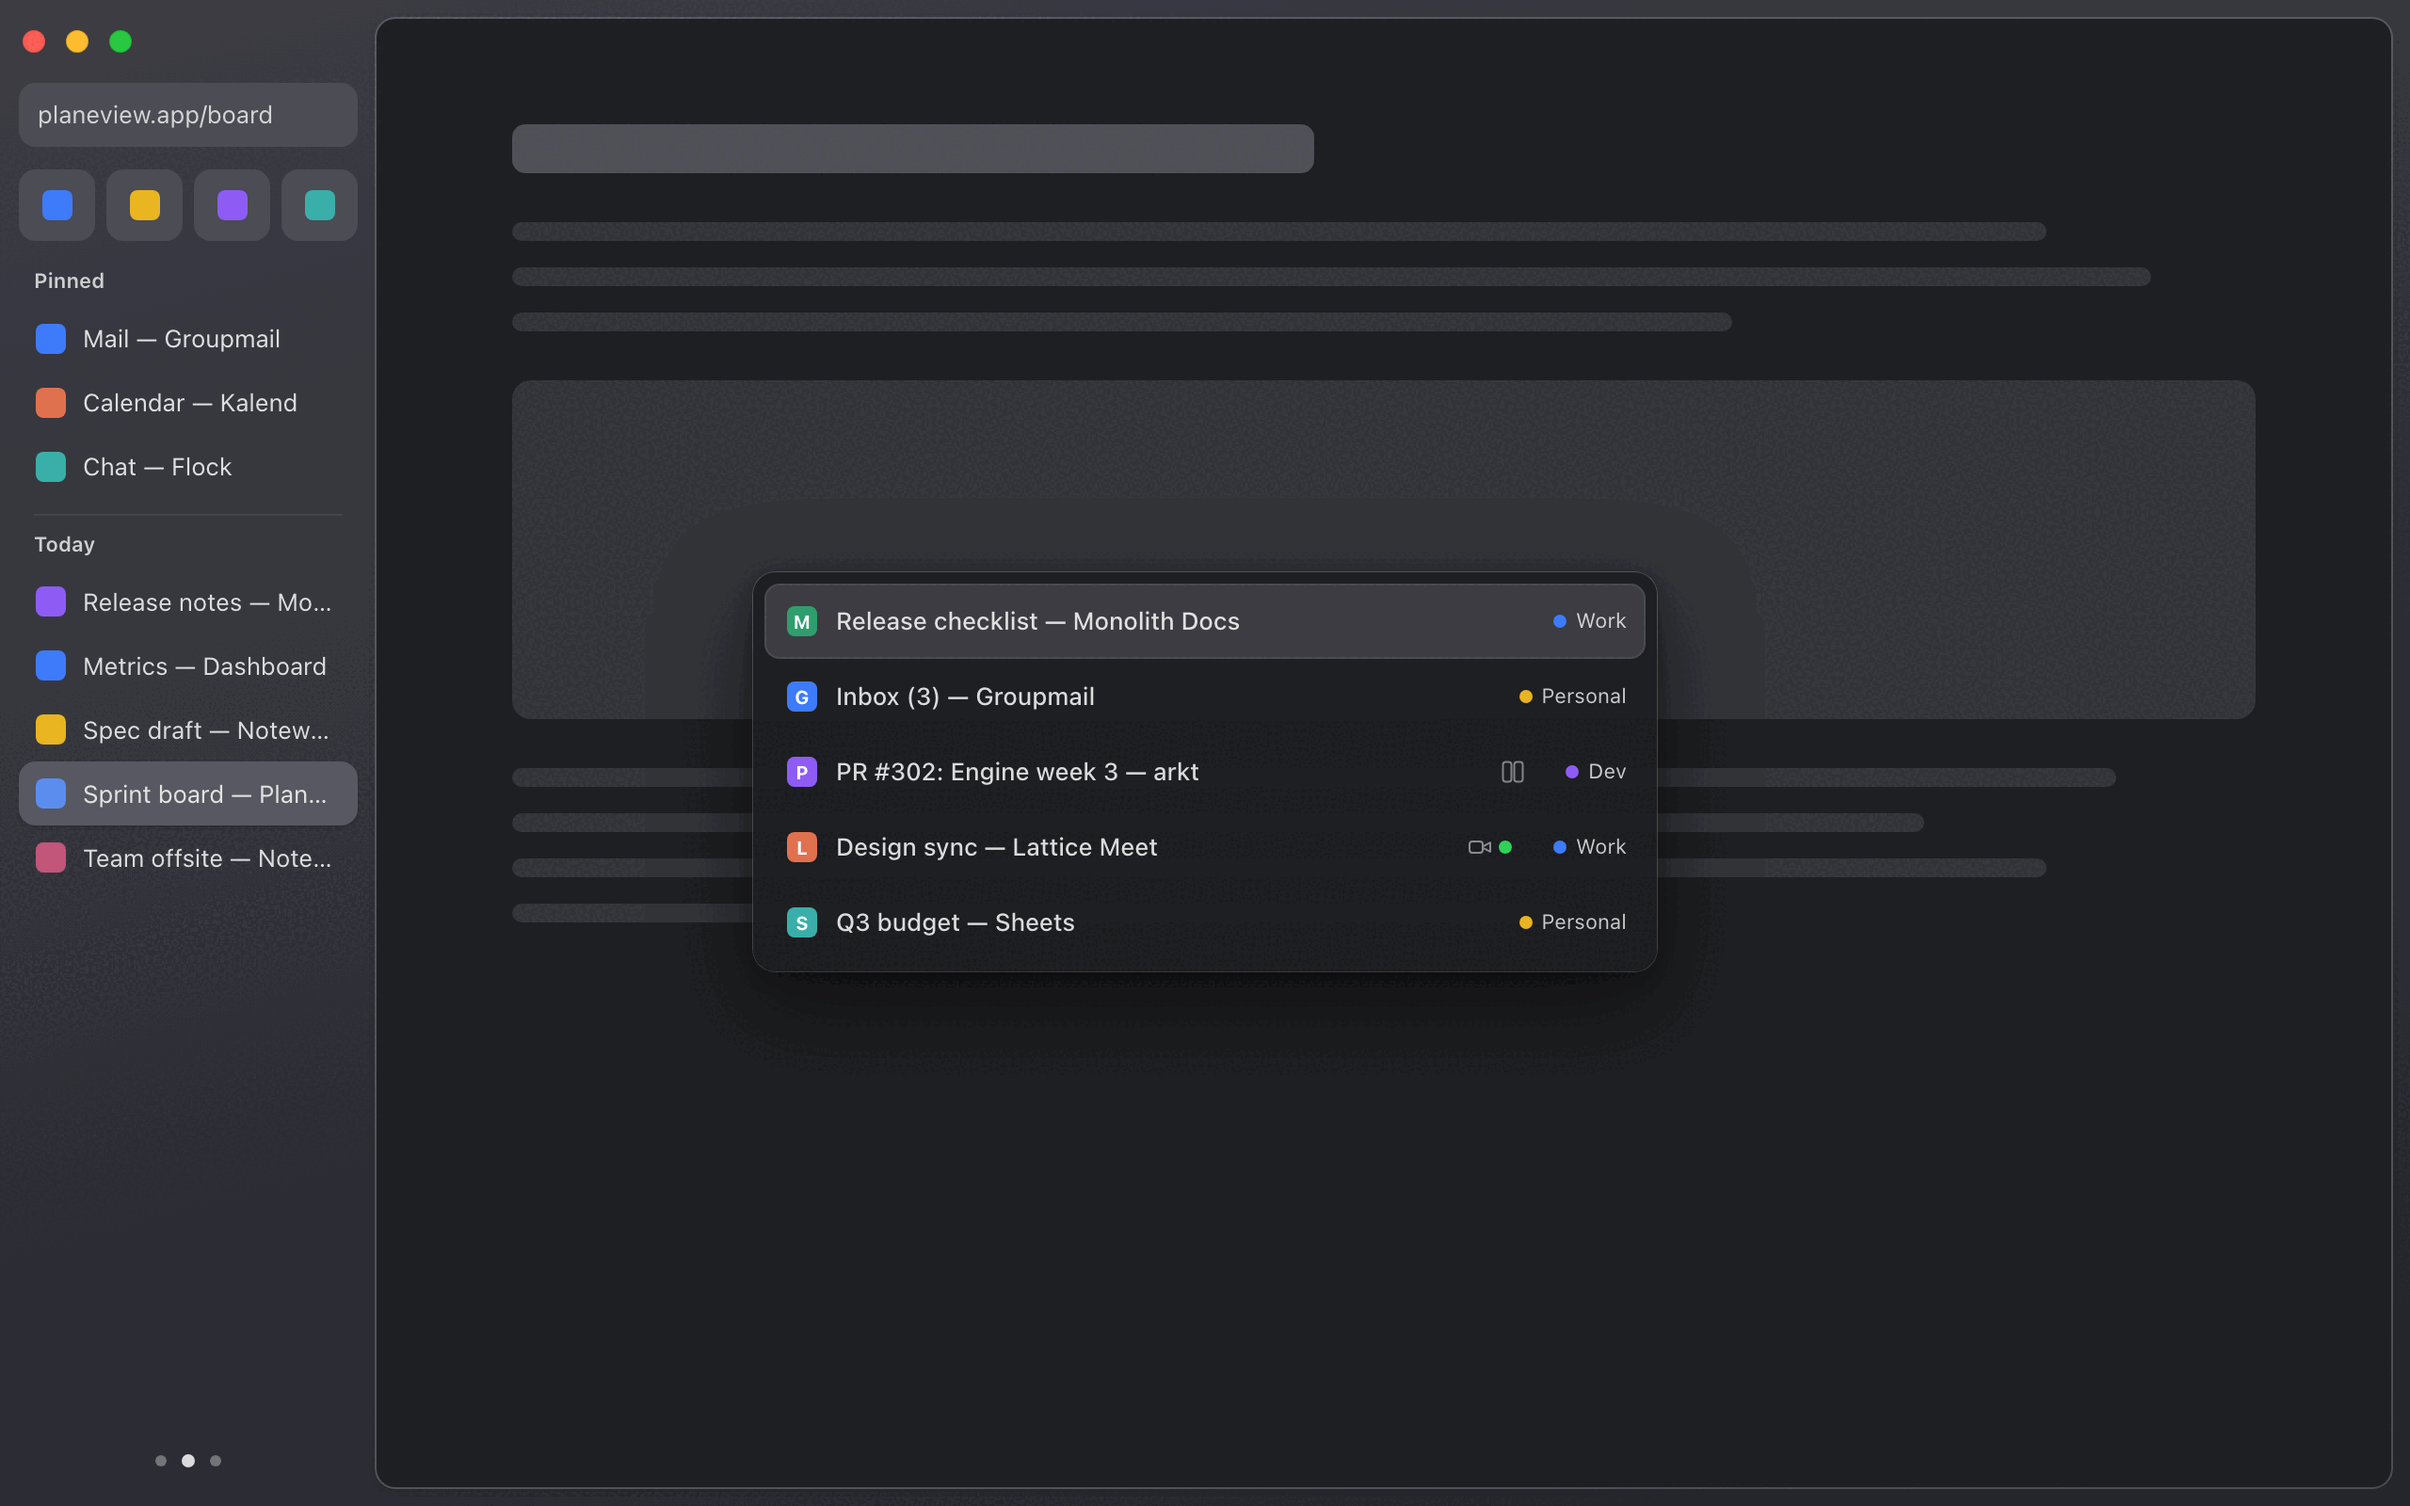
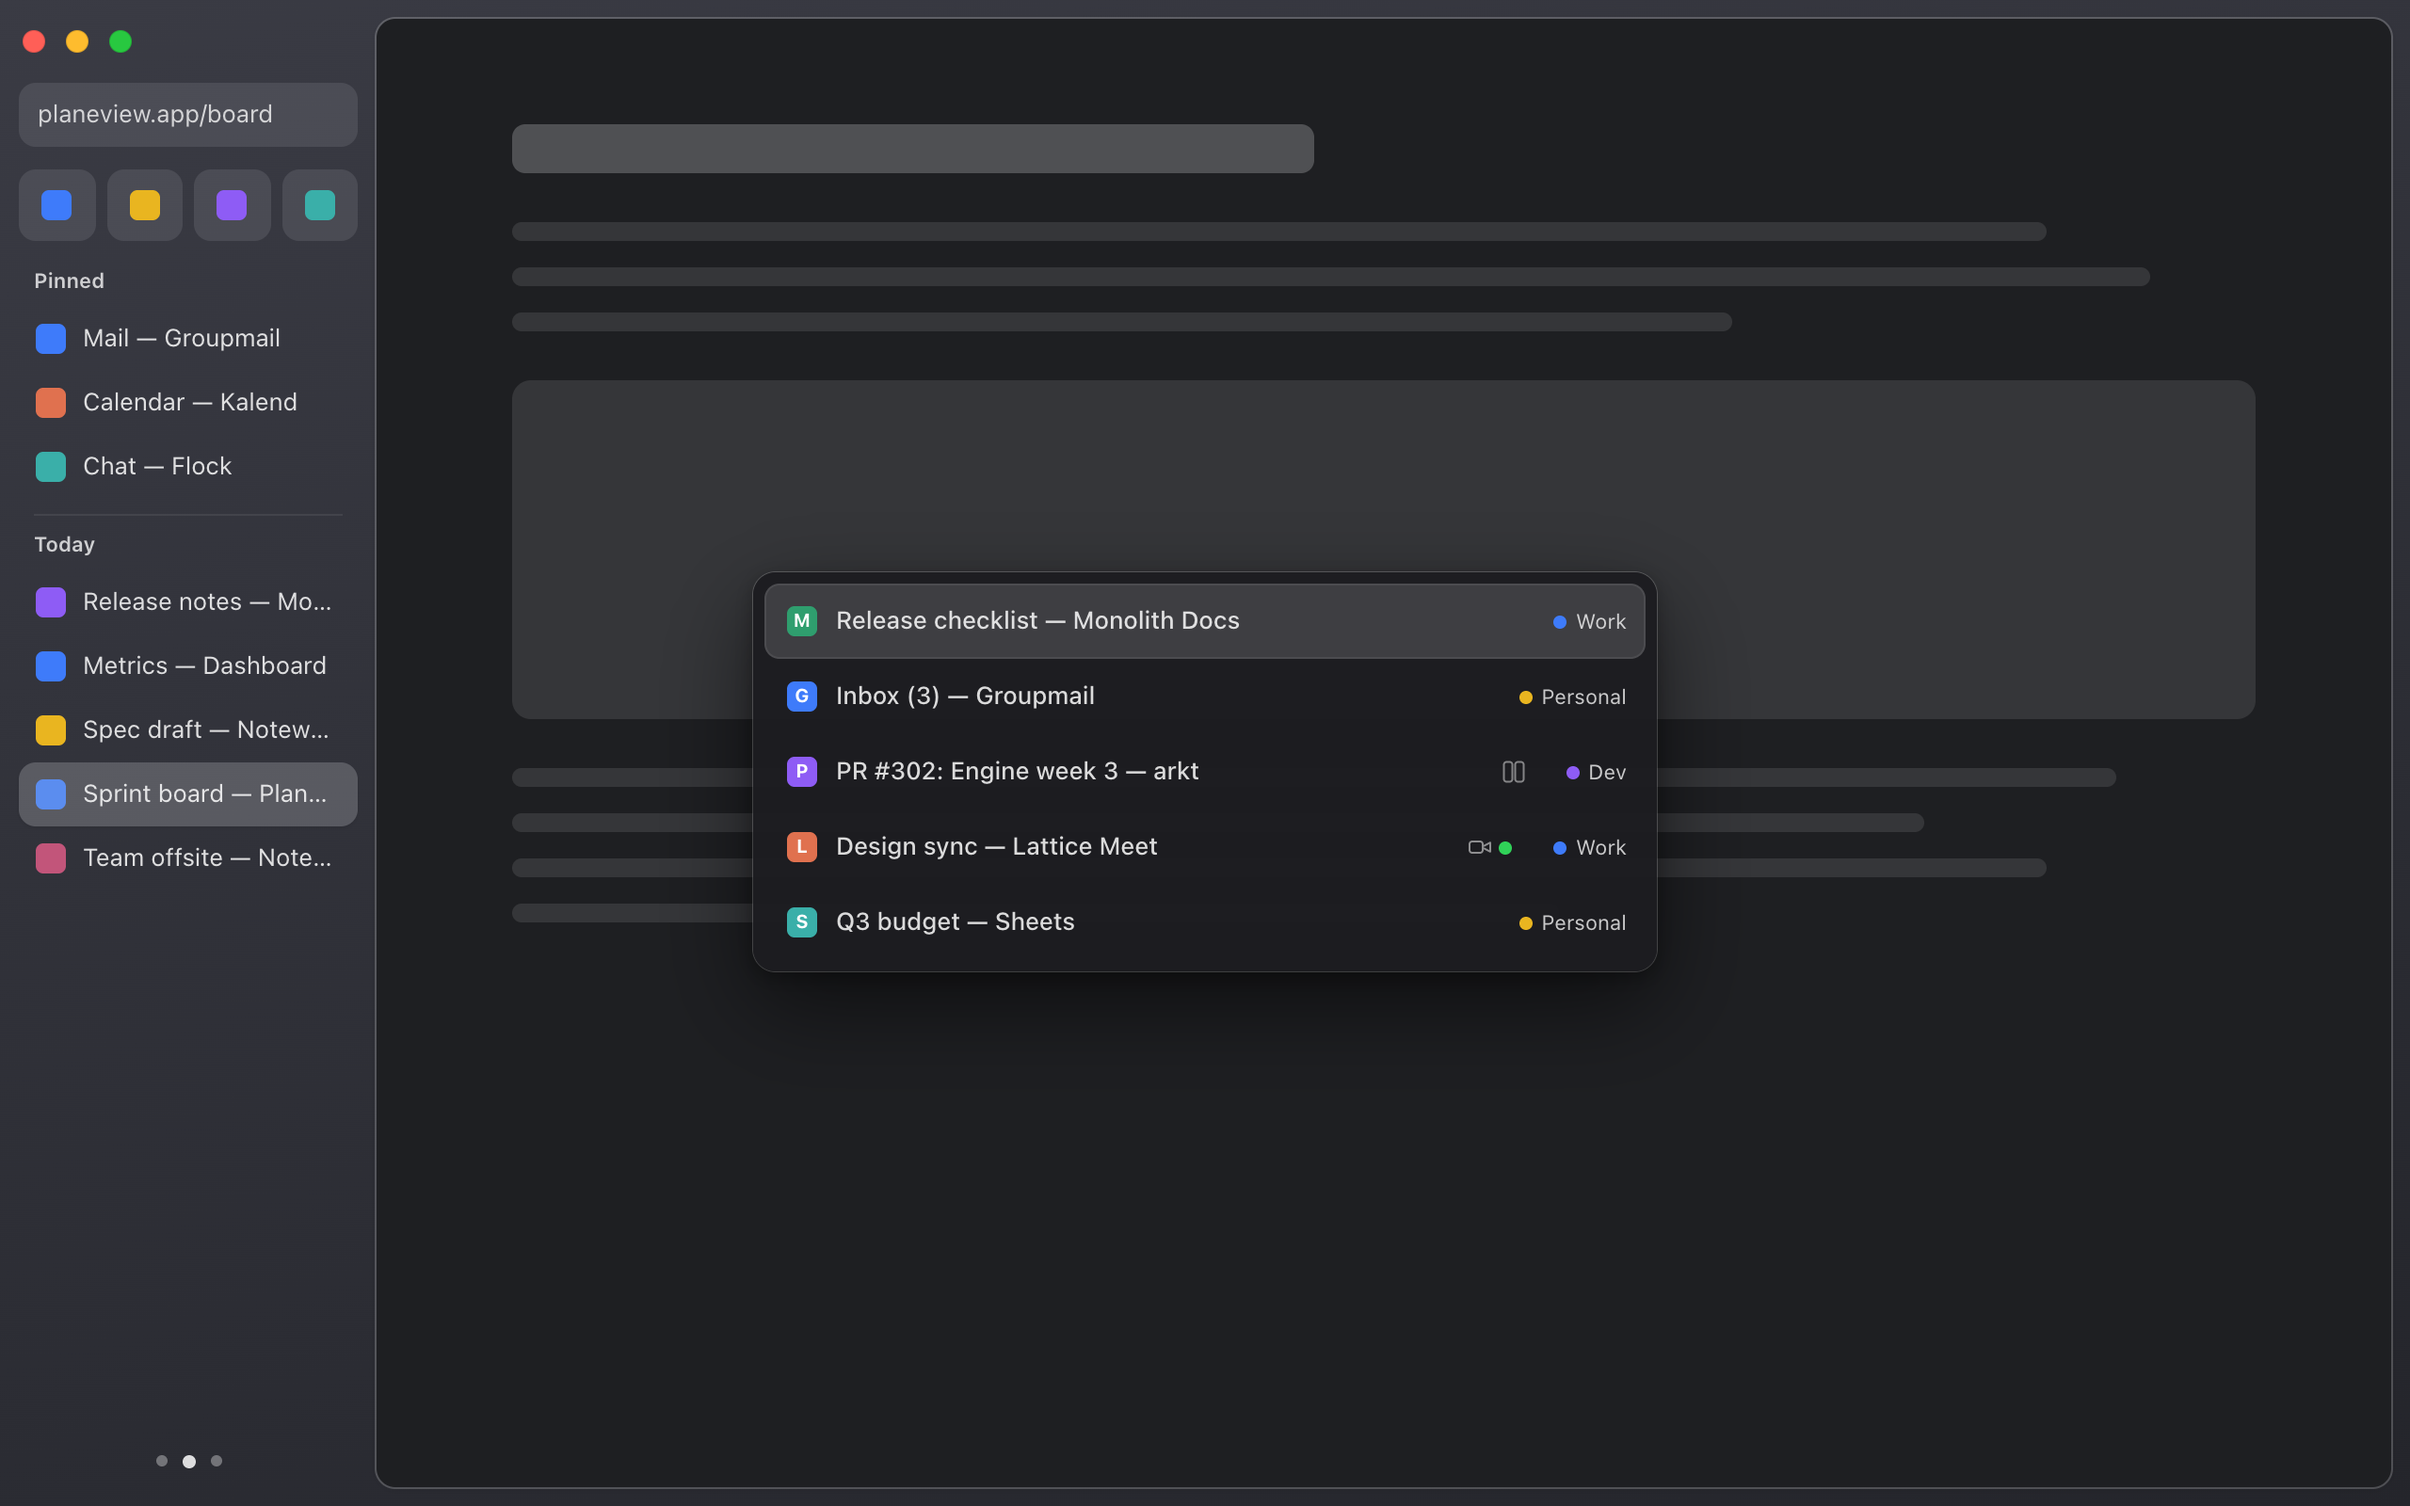
Re-render tab switcher screenshots without dithering; use the system focus ring

diff --git a/design/tab-switcher/prototype.html b/design/tab-switcher/prototype.html
@@ -17,7 +17,7 @@
 :root {
   /* BrandTokens */
   --accent: #E9B520; --on-accent: #202321;
-  --focus: #202321;                   /* focusRing */
+  --focus: rgba(0,103,244,0.50);      /* system keyboard focus ring (NSColor.keyboardFocusIndicatorColor, Blue accent) */
   /* ShellTokens */
   --text: color(display-p3 0.0549 0.0588 0.0627 / 0.90);         /* primaryText */
   --text-2: rgba(0,0,0,0.64);                                    /* secondaryText */
@@ -40,7 +40,7 @@
   color-scheme: light;
 }
 :root[data-theme="dark"] {
-  --focus: #E9B520;
+  --focus: rgba(26,145,255,0.55);
   --text: rgba(255,255,255,0.84); --text-2: rgba(255,255,255,0.76);
   --fill: color(display-p3 0.98 0.984 1 / 0.10); --fill-hover: color(display-p3 0.98 0.984 1 / 0.15);
   --divider: rgba(255,255,255,0.075); --card-border: rgba(255,255,255,0.20);
@@ -98,8 +98,8 @@ body.shot .win { width: 100vw; height: 100vh; max-width: none; border-radius: 0;
 .srow.cur { background: var(--row-cur); box-shadow: 0 1px 2px rgba(0,0,0,0.08); }
 .srow b { width: 16px; height: 16px; border-radius: 4px; flex: none; display: block; }
 .srow span { overflow: hidden; text-overflow: ellipsis; }
-.srow.kbfocus { box-shadow: 0 0 0 2px var(--focus); }
-.srow.cur.kbfocus { box-shadow: 0 0 0 2px var(--focus), 0 1px 2px rgba(0,0,0,0.08); }
+.srow.kbfocus { box-shadow: 0 0 0 3px var(--focus); }
+.srow.cur.kbfocus { box-shadow: 0 0 0 3px var(--focus), 0 1px 2px rgba(0,0,0,0.08); }
 .sdiv { height: 1px; margin: 8px 8px; background: var(--divider); }
 .sbottom { position: absolute; left: 10px; right: 10px; bottom: 10px; height: 28px; display: flex; justify-content: center;
   align-items: center; gap: 8px; }

diff --git a/design/tab-switcher/README.md b/design/tab-switcher/README.md
@@ -75,7 +75,7 @@ of the table.
 | Panel surface | `toastSurface` | ShellTokens |
 | Panel corners | 12, continuous | as the alerts overlay |
 | Panel shadow | `overlayShadow` (0.5 pt edge, 18/48 and 3/10 drop) | AlertTokens |
-| Sidebar keyboard focus ring | 2 pt, 2 pt outset, on the row | `BrandTokens.focusRing` |
+| Sidebar keyboard focus ring | The system focus ring on the row (`NSView.focusRingType = .default`, drawn in `NSColor.keyboardFocusIndicatorColor`, following the user's accent color). Mustard is never a stroke | AppKit |
 | Sidebar overflow pill | 24 high, `toastSurface`, `toastShadow`, chevron plus count ("3 more above"), centered on the sidebar's top or bottom edge for 3 s | proposed `ShellTokens.switcherOverflowPill`; PARITY(NEEDS-RUNTIME-CHECK) |
 
 New tokens this design adds: `switcherOverflowPill` reuses `toastSurface` and `toastShadow`, so no new colors at
@@ -158,7 +158,7 @@ is proposed, PARITY(NEEDS-RUNTIME-CHECK).
 ### Ctrl-Space and the sidebar keyboard focus hand-off (BH-019, BH-020, KB-036)
 
 Ctrl-Space reveals the current tab — scrolling the sidebar and opening a closed folder if the tab sits inside one —
-and moves keyboard focus to that row, shown with the `focusRing`. This is a real focus hand-off: the page loses
+and moves keyboard focus to that row, shown with the system focus ring. This is a real focus hand-off: the page loses
 focus, the sidebar becomes the key view. From there, the assumed behavior (open question 4, RT-13):
 
 - Up / Down move the focus row through the list; Left / Right move across the Favorites grid.
@@ -300,7 +300,7 @@ maintainer — the prototype and the flows above assume the answer on the left, 
 
 ## Screenshot index
 
-All in `design/tab-switcher/screens/`, 2560 x 1600 (1280 x 800 pt at 2x), quantized to 256 colors to stay under
-400 KB. Titles and URLs are synthetic.
+All in `design/tab-switcher/screens/`, 2560 x 1600 (1280 x 800 pt at 2x), saved as full-color PNG (no palette
+quantization, so shadows stay smooth), each under 400 KB. Titles and URLs are synthetic.
 
 States, light and dark: `switcher-first-open`, `switcher-mid-cycle`, `switcher-single-row`, `sidebar-focus`.
